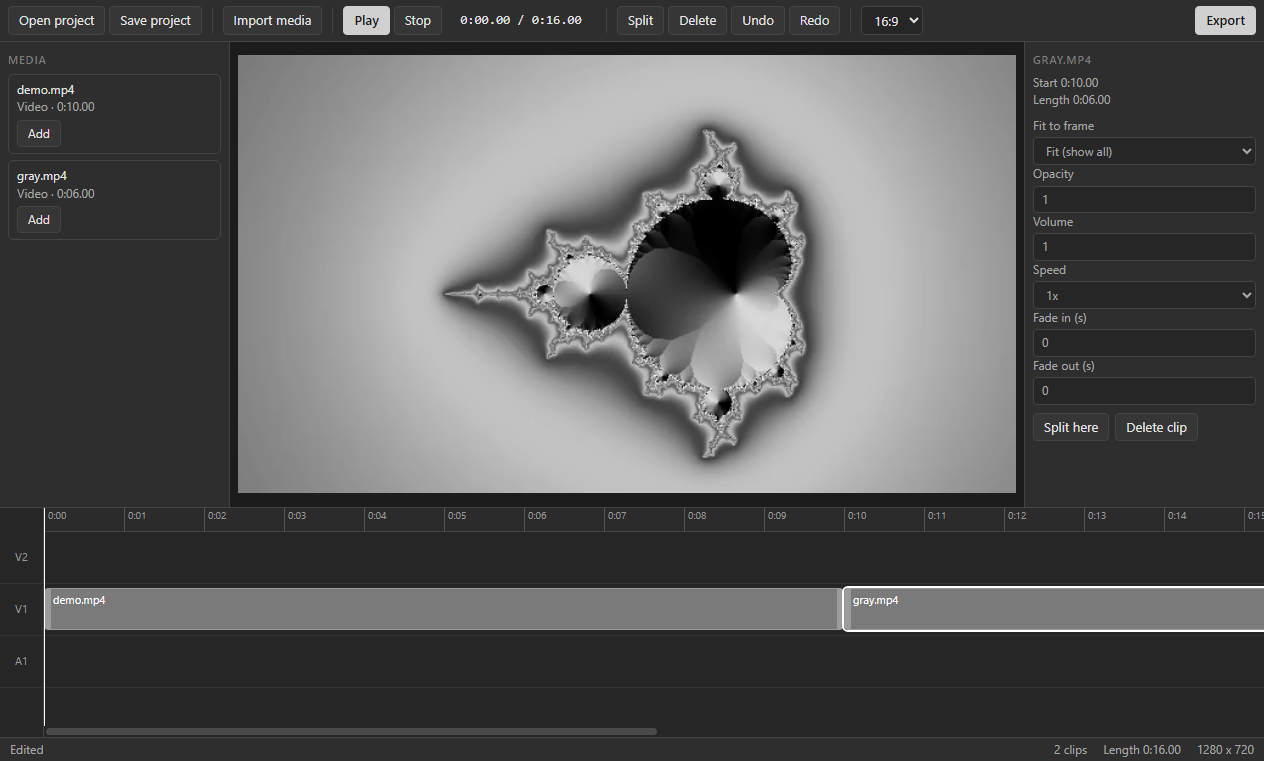
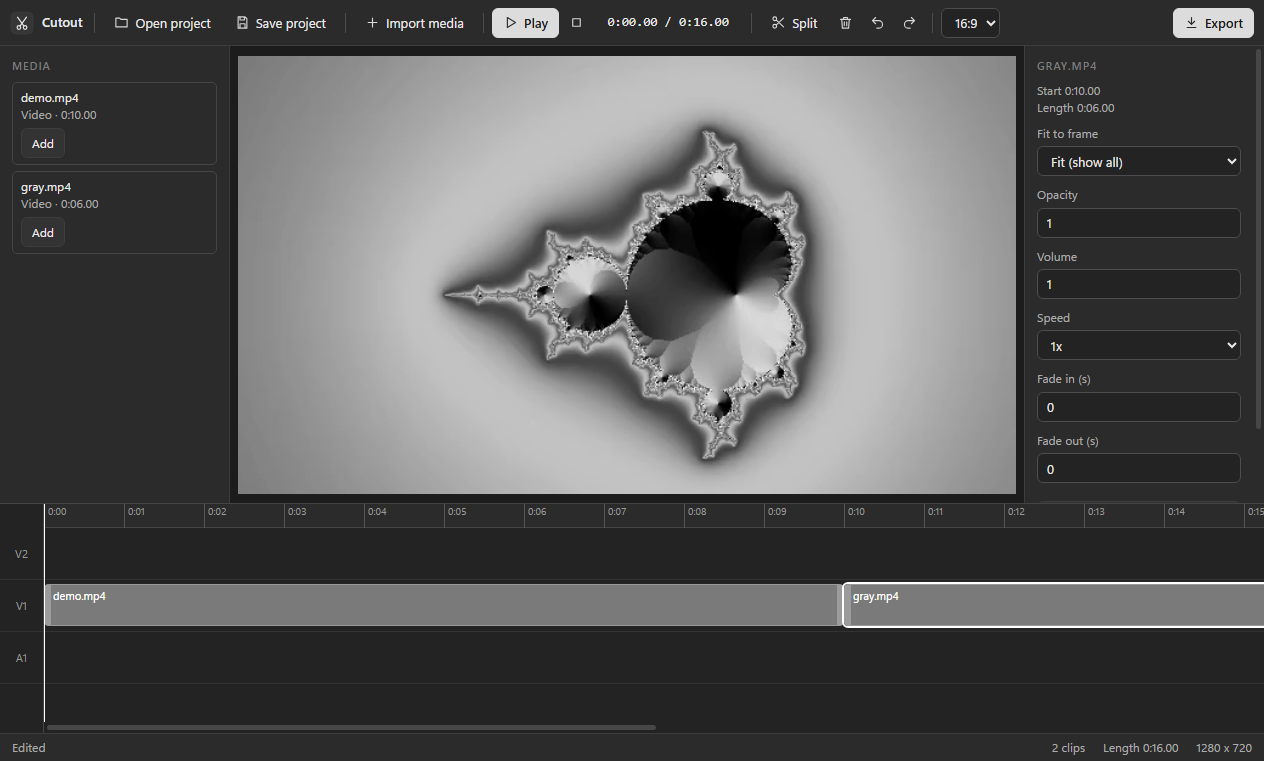
Cutout 1.0.2: refreshed interface
Refreshed interface: line icons on every toolbar button, the app mark in the top bar, consistent control sizes and spacing, tidier side panels, and a toolbar that adapts to smaller windows. Also includes layout fixes and a fuller guide on the project page.

diff --git a/renderer/lookout.css b/renderer/lookout.css
@@ -1,62 +1,119 @@
-/* Lookout gray UI kit: flat, no glow, no gradients, no hue. */
+/* Lookout gray UI kit v2: flat, calm, no hue. Shared by every Lookout app. */
 :root{
-  --bg:#262626; --bg-2:#2e2e2e; --bg-3:#363636; --line:#444; --line-2:#555;
-  --text:#e4e4e4; --text-2:#a8a8a8; --text-3:#7c7c7c;
-  --accent:#d0d0d0; --accent-ink:#1c1c1c; --focus:#9a9a9a;
-  --radius:4px; --font:"Segoe UI",system-ui,-apple-system,sans-serif; --mono:Consolas,"Cascadia Mono",monospace;
+  --bg:#232323; --bg-2:#2b2b2b; --bg-3:#333333; --bg-4:#3b3b3b; --stage:#1c1c1c;
+  --line:#3d3d3d; --line-2:#4d4d4d; --line-3:#5c5c5c;
+  --text:#e8e8e8; --text-2:#ababab; --text-3:#7d7d7d;
+  --accent:#dcdcdc; --accent-ink:#1b1b1b; --focus:#a0a0a0;
+  --radius:6px; --h:30px;
+  --font:"Segoe UI Variable Text","Segoe UI",system-ui,-apple-system,sans-serif; --mono:Consolas,"Cascadia Mono",monospace;
 }
 *{box-sizing:border-box;margin:0;padding:0}
 html,body{height:100%;background:var(--bg);color:var(--text);font:13px/1.45 var(--font);overflow:hidden;user-select:none;-webkit-font-smoothing:antialiased}
 button,input,select,textarea{font:inherit;color:inherit}
 .app{display:grid;grid-template-rows:auto 1fr auto;height:100vh}
-.toolbar{display:flex;align-items:center;gap:4px;padding:6px 8px;background:var(--bg-2);border-bottom:1px solid var(--line);flex-wrap:wrap}
-.toolbar .sep{width:1px;align-self:stretch;background:var(--line);margin:2px 6px}
-.toolbar .grow{flex:1}
-.btn{background:var(--bg-3);border:1px solid var(--line);border-radius:var(--radius);padding:4px 10px;cursor:pointer;white-space:nowrap}
-.btn:hover{background:#404040;border-color:var(--line-2)}
+
+/* ---------- toolbar ---------- */
+.toolbar{display:flex;align-items:center;gap:2px;padding:7px 10px;min-height:46px;background:var(--bg-2);border-bottom:1px solid var(--line);flex-wrap:nowrap;overflow-x:auto;overflow-y:hidden;scrollbar-width:none}
+.toolbar::-webkit-scrollbar{height:0}
+.toolbar>*{flex-shrink:0}
+.toolbar .sep{width:1px;height:20px;align-self:center;background:var(--line-2);margin:0 6px}
+.toolbar .grow{flex:1 1 auto;min-width:8px}
+.toolbar input[type=text],.toolbar input[type=search]{width:170px}
+.brand{display:flex;align-items:center;gap:8px;padding-right:6px;margin-right:4px;font-weight:600;font-size:13px;color:var(--text)}
+.brand img{width:24px;height:24px;border-radius:6px;display:block}
+.brand+.sep{margin-left:0}
+
+/* ---------- buttons ---------- */
+.btn{display:inline-flex;align-items:center;justify-content:center;gap:6px;height:var(--h);padding:0 10px;background:var(--bg-3);border:1px solid var(--line);border-radius:var(--radius);cursor:pointer;white-space:nowrap;line-height:1;transition:background .08s,border-color .08s}
+.btn:hover{background:var(--bg-4);border-color:var(--line-2)}
 .btn:active{background:#2a2a2a}
-.btn:focus-visible,input:focus-visible,select:focus-visible,textarea:focus-visible,[tabindex]:focus-visible{outline:1px solid var(--focus);outline-offset:1px}
+.btn:focus-visible,input:focus-visible,select:focus-visible,textarea:focus-visible,[tabindex]:focus-visible{outline:2px solid var(--focus);outline-offset:1px}
 .btn.primary{background:var(--accent);color:var(--accent-ink);border-color:var(--accent);font-weight:600}
-.btn.primary:hover{background:#e0e0e0}
-.btn.on{background:#4a4a4a;border-color:var(--line-2)}
-.btn[disabled]{opacity:.4;pointer-events:none}
-.btn.icon{padding:4px 8px;min-width:30px;text-align:center}
-input[type=text],input[type=number],input[type=search],select,textarea{background:var(--bg);border:1px solid var(--line);border-radius:var(--radius);padding:4px 8px;user-select:text}
-input[type=range]{accent-color:#bdbdbd}
-input[type=color]{border:1px solid var(--line);background:var(--bg);width:28px;height:24px;padding:1px;border-radius:var(--radius)}
-label.field{display:flex;flex-direction:column;gap:3px;color:var(--text-2);font-size:12px}
-.main{display:flex;min-height:0}
-.sidebar{width:220px;background:var(--bg-2);border-right:1px solid var(--line);overflow:auto;padding:8px;flex-shrink:0}
-.sidebar.right{border-right:0;border-left:1px solid var(--line);width:250px}
-.sidebar h3,.panel-title{font-size:11px;text-transform:uppercase;letter-spacing:.08em;color:var(--text-3);margin:10px 0 6px;font-weight:600}
+.btn.primary:hover{background:#ececec;border-color:#ececec}
+.btn.on{background:#4a4a4a;border-color:var(--line-3);box-shadow:inset 0 0 0 1px #6a6a6a}
+.btn[disabled]{opacity:.38;pointer-events:none}
+.btn.icon{padding:0;width:var(--h);min-width:var(--h)}
+.btn .ic{width:15px;height:15px;flex-shrink:0;display:block;opacity:.92}
+.toolbar .btn:not(.primary):not(.on){background:transparent;border-color:transparent}
+.toolbar .btn:not(.primary):not(.on):hover{background:var(--bg-4);border-color:var(--line-2)}
+
+.toolbar.c1 .btn.minor:not(.primary):has(> svg.ic),.toolbar.c2 .btn:not(.primary):has(> svg.ic),.toolbar.c3 .btn:has(> svg.ic){font-size:0;gap:0;width:var(--h);padding:0}
+.toolbar.c2 .brand span{display:none}
+.toolbar.c2 input[type=text],.toolbar.c2 input[type=search]{width:120px}
+
+/* ---------- fields ---------- */
+input[type=text],input[type=number],input[type=search],input[type=date],select,textarea{background:var(--bg);border:1px solid var(--line-2);border-radius:var(--radius);padding:0 9px;height:var(--h);user-select:text;min-width:0}
+textarea{height:auto;padding:7px 9px;resize:vertical;line-height:1.45}
+select{padding-right:6px;cursor:pointer}
+input:hover,select:hover,textarea:hover{border-color:var(--line-3)}
+input[type=range]{accent-color:#c8c8c8;height:var(--h)}
+input[type=checkbox]{accent-color:#c8c8c8;width:15px;height:15px;cursor:pointer}
+input[type=color]{border:1px solid var(--line-2);background:var(--bg);width:30px;height:var(--h);padding:2px;border-radius:var(--radius)}
+label.field{display:flex;flex-direction:column;gap:4px;color:var(--text-2);font-size:12px}
+label.field>input,label.field>select,label.field>textarea{width:100%;color:var(--text);font-size:13px}
+
+/* ---------- layout ---------- */
+.main{display:flex;min-height:0;min-width:0}
+.sidebar{width:228px;background:var(--bg-2);border-right:1px solid var(--line);overflow:auto;padding:10px 12px 14px;flex-shrink:0}
+.sidebar.right{border-right:0;border-left:1px solid var(--line);width:272px}
+.sidebar h3,.panel-title{font-size:11px;text-transform:uppercase;letter-spacing:.08em;color:var(--text-3);margin:16px 0 8px;font-weight:600}
 .sidebar h3:first-child{margin-top:2px}
-.stage{flex:1;min-width:0;min-height:0;position:relative;background:#1f1f1f;overflow:auto}
-.status{display:flex;gap:16px;align-items:center;padding:3px 10px;background:var(--bg-2);border-top:1px solid var(--line);color:var(--text-2);font-size:12px}
+.sidebar input[type=text],.sidebar input[type=search],.sidebar select,.sidebar textarea{width:100%}
+.sidebar .row{flex-wrap:wrap}
+.sidebar .row>.btn{flex:1 1 auto}
+.sidebar .row>label.field{flex:1 1 0;min-width:0}
+.sidebar label.field{margin-bottom:10px}
+.sidebar .btn{width:auto}
+.sidebar>.btn{width:100%;margin-bottom:6px}
+.stage{flex:1;min-width:0;min-height:0;position:relative;background:var(--stage);overflow:auto}
+.status{display:flex;gap:18px;align-items:center;height:28px;padding:0 12px;background:var(--bg-2);border-top:1px solid var(--line);color:var(--text-2);font-size:12px;white-space:nowrap;overflow:hidden}
 .status .grow{flex:1}
 .list{display:flex;flex-direction:column;gap:2px}
-.list .item{padding:5px 8px;border-radius:var(--radius);cursor:pointer;border:1px solid transparent;display:flex;gap:6px;align-items:center}
+.list .item{padding:6px 8px;border-radius:var(--radius);cursor:pointer;border:1px solid transparent;display:flex;gap:6px;align-items:center;min-height:30px}
 .list .item:hover{background:var(--bg-3)}
-.list .item.sel{background:#444;border-color:var(--line-2)}
+.list .item.sel{background:var(--bg-4);border-color:var(--line-2)}
 .row{display:flex;gap:6px;align-items:center}
+.grow{flex:1 1 auto;min-width:0}
+.brow{display:grid;grid-template-columns:1fr 1fr;gap:6px;margin-bottom:6px}
+.brow>.btn{justify-content:flex-start}
+.frow{display:flex;align-items:center;gap:8px;margin-bottom:8px;color:var(--text-2)}
+.frow>input[type=text],.frow>input[type=number]{flex:1;color:var(--text)}
+.frow>span:first-child{min-width:44px}
+.frow>select{flex:1;min-width:0}
+.sidebar input[type=range]{width:100%}
+.sidebar .swatches{margin-bottom:10px}
+.list .item .btn{height:24px!important;width:26px!important;padding:0!important;font-size:0!important;gap:0;background:transparent;border-color:transparent;opacity:.55}
+.list .item:hover .btn,.list .item.sel .btn{opacity:1}
+.list .item .btn:hover{background:var(--bg-4);border-color:var(--line-2)}
 .col{display:flex;flex-direction:column;gap:6px}
 .muted{color:var(--text-2)}
-.empty{position:absolute;inset:0;display:flex;flex-direction:column;align-items:center;justify-content:center;gap:10px;color:var(--text-3);text-align:center;padding:20px}
-.empty .big{font-size:18px;color:var(--text-2)}
-.modal-back{position:fixed;inset:0;background:rgba(0,0,0,.55);display:flex;align-items:center;justify-content:center;z-index:50}
-.modal{background:var(--bg-2);border:1px solid var(--line-2);border-radius:6px;min-width:340px;max-width:80vw;max-height:85vh;overflow:auto;padding:16px;display:flex;flex-direction:column;gap:12px}
-.modal h2{font-size:15px;font-weight:600}
-.toast{position:fixed;left:50%;bottom:34px;transform:translateX(-50%);background:var(--bg-3);border:1px solid var(--line-2);padding:7px 14px;border-radius:var(--radius);z-index:60}
-.progress{height:6px;background:var(--bg);border:1px solid var(--line);border-radius:3px;overflow:hidden}
-.progress>i{display:block;height:100%;background:var(--accent);width:0}
-table.grid{border-collapse:collapse;width:100%}
-table.grid th,table.grid td{border:1px solid var(--line);padding:4px 8px;text-align:left}
-table.grid th{background:var(--bg-2);color:var(--text-2);font-weight:600}
-::-webkit-scrollbar{width:11px;height:11px}
-::-webkit-scrollbar-thumb{background:#4a4a4a;border:2px solid var(--bg);border-radius:6px}
-::-webkit-scrollbar-track{background:var(--bg)}
-.swatches{display:flex;flex-wrap:wrap;gap:4px}
-.swatches button{width:22px;height:22px;border:1px solid var(--line-2);border-radius:3px;cursor:pointer;padding:0}
-.swatches button.on{outline:2px solid var(--accent);outline-offset:1px}
-.progress>div{display:block;height:100%;background:var(--accent)}
-table.grid tr.sel td{background:#3a3a3a}
+.empty{position:absolute;inset:0;display:flex;flex-direction:column;align-items:center;justify-content:center;gap:12px;color:var(--text-3);text-align:center;padding:24px}
+.empty .big{font-size:18px;color:var(--text-2);font-weight:600}
+
+/* ---------- overlays ---------- */
+.modal-back{position:fixed;inset:0;background:rgba(0,0,0,.6);display:flex;align-items:center;justify-content:center;z-index:50}
+.modal{background:var(--bg-2);border:1px solid var(--line-2);border-radius:10px;min-width:360px;max-width:80vw;max-height:85vh;overflow:auto;padding:20px;display:flex;flex-direction:column;gap:14px;box-shadow:0 18px 50px rgba(0,0,0,.5)}
+.modal h2{font-size:16px;font-weight:600}
+.toast{position:fixed;left:50%;bottom:40px;transform:translateX(-50%);background:var(--bg-4);border:1px solid var(--line-3);padding:9px 16px;border-radius:8px;z-index:60;box-shadow:0 8px 24px rgba(0,0,0,.4)}
+.progress{height:6px;background:var(--bg);border:1px solid var(--line);border-radius:4px;overflow:hidden}
+.progress>i,.progress>div{display:block;height:100%;background:var(--accent);width:0}
+
+/* ---------- tables ---------- */
+table.grid{border-collapse:separate;border-spacing:0;width:100%}
+table.grid th,table.grid td{border-bottom:1px solid var(--line);padding:0 12px;height:38px;text-align:left;vertical-align:middle}
+table.grid th{background:var(--bg-2);color:var(--text-2);font-weight:600;font-size:12px;position:sticky;top:0;z-index:1;height:34px}
+table.grid tbody tr:hover td{background:#262626}
+table.grid tr.sel td{background:#353535}
 table.grid tbody tr{cursor:default}
+table.grid td .btn{height:26px;margin-left:8px;vertical-align:middle}
+table.grid td{white-space:nowrap}
+
+/* ---------- misc ---------- */
+::-webkit-scrollbar{width:11px;height:11px}
+::-webkit-scrollbar-thumb{background:#474747;border:3px solid transparent;background-clip:padding-box;border-radius:8px}
+::-webkit-scrollbar-thumb:hover{background:#5a5a5a;background-clip:padding-box;border:3px solid transparent}
+::-webkit-scrollbar-track,::-webkit-scrollbar-corner{background:transparent}
+.swatches{display:flex;flex-wrap:wrap;gap:6px}
+.swatches button{width:24px;height:24px;border:1px solid var(--line-3);border-radius:5px;cursor:pointer;padding:0}
+.swatches button.on{outline:2px solid var(--accent);outline-offset:2px}
+kbd{font-family:var(--mono);font-size:11px;background:var(--bg-3);border:1px solid var(--line-2);border-bottom-width:2px;border-radius:4px;padding:0 5px}

diff --git a/renderer/kit.js b/renderer/kit.js
@@ -1,0 +1,137 @@
+// Lookout UI kit: adds the app mark to the toolbar and monochrome line icons to buttons.
+// Purely visual. Buttons keep their text, so nothing else changes.
+(function () {
+  'use strict';
+  const NS = 'http://www.w3.org/2000/svg';
+  const P = {
+    plus: 'M12 5v14M5 12h14',
+    file: 'M14 3H6v18h12V7zM14 3v4h4M12 11v6M9 14h6',
+    folder: 'M3 7V5h6l2 2h10v12H3z',
+    save: 'M5 3h11l3 3v15H5zM8 3v5h7V3M8 21v-7h8v7',
+    saveas: 'M5 3h11l3 3v6M5 3v18h7M8 3v5h7V3M15 21l6-6-2-2-6 6v2z',
+    undo: 'M9 14L4 9l5-5M4 9h10a6 6 0 010 12h-3',
+    redo: 'M15 14l5-5-5-5M20 9H10a6 6 0 000 12h3',
+    trash: 'M4 7h16M10 11v6M14 11v6M6 7l1 14h10l1-14M9 7V4h6v3',
+    copy: 'M9 9h11v11H9zM5 15H4V4h11v1',
+    paste: 'M9 4h6v3H9zM8 5H5v16h14V5h-3',
+    dup: 'M8 8h12v12H8zM4 16V4h12M14 11v6M11 14h6',
+    download: 'M12 4v11M7 10l5 5 5-5M5 20h14',
+    fit: 'M4 9V4h5M15 4h5v5M20 15v5h-5M9 20H4v-5',
+    play: 'M7 4l13 8-13 8z',
+    stop: 'M6 6h12v12H6z',
+    pause: 'M7 5h3v14H7zM14 5h3v14h-3z',
+    rec: 'M12 5a7 7 0 100 14 7 7 0 000-14z',
+    scissors: 'M6 9a3 3 0 100-6 3 3 0 000 6zM6 21a3 3 0 100-6 3 3 0 000 6zM8.2 7.8L20 19M8.2 16.2L20 5',
+    pointer: 'M5 3l14 7-6 2-2 6z',
+    hand: 'M8 13V6a1.5 1.5 0 013 0v5M11 11V4.5a1.5 1.5 0 013 0V11M14 11V6a1.5 1.5 0 013 0v8a7 7 0 01-7 7 6 6 0 01-5-3l-2.5-4.5a1.5 1.5 0 012.6-1.5L8 15',
+    connector: 'M5 19L19 5M13 5h6v6',
+    frame: 'M7 3v18M17 3v18M3 7h18M3 17h18',
+    rect: 'M4 6h16v12H4z',
+    ellipse: 'M12 5c4.4 0 8 3.1 8 7s-3.6 7-8 7-8-3.1-8-7 3.6-7 8-7z',
+    line: 'M5 19L19 5',
+    text: 'M5 6V4h14v2M12 4v16M9 20h6',
+    highlight: 'M14 4l6 6-8 8H6v-6zM4 21h16',
+    pen: 'M4 20l4-1 11-11-3-3L5 16zM14 7l3 3',
+    redact: 'M4 8h16v8H4z',
+    sign: 'M3 17c3-6 5-9 7-9 3 0-2 9 1 9 2 0 3-3 5-3s1 3 5 3M3 21h18',
+    eraser: 'M8 20l-4-4 10-10 6 6-10 8zM12 20h8',
+    search: 'M11 4a7 7 0 100 14 7 7 0 000-14zM16 16l5 5',
+    list: 'M9 6h11M9 12h11M9 18h11M4 6h.01M4 12h.01M4 18h.01',
+    child: 'M5 4v8a3 3 0 003 3h11M15 11l4 4-4 4',
+    sibling: 'M5 6h14M5 12h14M12 15v6M9 18h6',
+    collapse: 'M6 9l6 6 6-6',
+    expand: 'M7 14l5-5 5 5',
+    calendar: 'M4 6h16v14H4zM4 10h16M8 3v5M16 3v5',
+    diamond: 'M12 3l9 9-9 9-9-9z',
+    up: 'M12 19V5M6 11l6-6 6 6',
+    down: 'M12 5v14M6 13l6 6 6-6',
+    refresh: 'M20 11a8 8 0 10-2.3 5.7M20 4v7h-7',
+    check: 'M4 12l5 5L20 6',
+    convert: 'M4 8h13M13 4l4 4-4 4M20 16H7M11 12l-4 4 4 4',
+    eye: 'M2 12s4-7 10-7 10 7 10 7-4 7-10 7S2 12 2 12zM12 9a3 3 0 100 6 3 3 0 000-6z',
+    info: 'M12 3a9 9 0 100 18 9 9 0 000-18zM12 11v6M12 7.5h.01',
+    front: 'M8 8h12v12H8zM4 4h10v3M4 4v10h3',
+    back: 'M4 4h12v12H4zM20 8v12H8v-4',
+    merge: 'M6 3v6a6 6 0 006 6h6M15 12l3 3-3 3M6 21v-4',
+    rotl: 'M4 10a8 8 0 112 6M4 4v6h6',
+    rotr: 'M20 10a8 8 0 10-2 6M20 4v6h-6',
+    blank: 'M6 3h12v18H6z',
+    extract: 'M14 3H6v18h12V7zM14 3v4h4M12 10v7M9 14l3 3 3-3',
+    mic: 'M12 3a3 3 0 00-3 3v6a3 3 0 006 0V6a3 3 0 00-3-3zM6 11a6 6 0 0012 0M12 17v4',
+    clear: 'M6 6l12 12M18 6L6 18',
+    gaps: 'M3 6v12M21 6v12M7 12h10M10 9l-3 3 3 3M14 9l3 3-3 3',
+    title: 'M4 5h16v14H4zM8 9h8M12 9v7',
+    dashed: 'M4 12h3M10 12h4M17 12h3',
+    arrow: 'M4 12h15M14 7l5 5-5 5',
+    elbow: 'M4 6h8v12h8',
+    label: 'M3 12l6-7h12v14H9zM8 12h.01',
+    image: 'M4 5h16v14H4zM4 16l5-5 4 4 3-3 4 4M15 9h.01',
+    vector: 'M5 19L12 5l7 14M8 13h8M3 19h4M17 19h4',
+    table: 'M4 5h16v14H4zM4 10h16M4 15h16M10 5v14',
+    lock: 'M6 11h12v9H6zM8 11V8a4 4 0 018 0v3',
+    unlock: 'M6 11h12v9H6zM8 11V8a4 4 0 017.5-2',
+    eyeoff: 'M3 3l18 18M10.6 6.1A10 10 0 0112 6c6 0 10 6 10 6a17 17 0 01-3 3.6M6.6 6.6C3.8 8.3 2 12 2 12s4 7 10 7a9.7 9.7 0 004.4-1',
+  };
+  const MAP = {
+    'New': 'file', 'Open': 'folder', 'Open project': 'folder', 'Open file': 'folder', 'Save': 'save', 'Save project': 'save', 'Save as': 'saveas',
+    'Undo': 'undo', 'Redo': 'redo', 'Delete': 'trash', 'Delete clip': 'trash', 'Remove selected': 'trash', 'Copy': 'copy', 'Paste': 'paste', 'Duplicate': 'dup',
+    'Export PNG': 'image', 'Export SVG': 'vector', 'Export CSV': 'table', 'Export': 'download', 'Export page as PNG': 'download', 'Extract all text': 'text',
+    'Fit': 'fit', 'Play': 'play', 'Stop': 'stop', 'Pause': 'pause', 'Resume': 'play', 'Record': 'rec', 'Split': 'scissors', 'Split here': 'scissors',
+    'Select': 'pointer', 'Move': 'pointer', 'Hand': 'hand', 'Connector': 'connector', 'Frame': 'frame', 'Rectangle': 'rect', 'Box': 'rect', 'Ellipse': 'ellipse', 'Line': 'line', 'Text': 'text',
+    'Highlight': 'highlight', 'Pen': 'pen', 'Redact': 'redact', 'Sign': 'sign', 'Erase': 'eraser', 'Preview': 'eye', 'Outline': 'list',
+    'Add child': 'child', 'Add sibling': 'sibling', 'Edit': 'pen', 'Collapse': 'collapse', 'Expand all': 'expand', 'Today': 'calendar',
+    'Add task': 'plus', 'Add milestone': 'diamond', 'Move up': 'up', 'Move down': 'down', 'Up': 'up', 'Down': 'down',
+    'Import media': 'plus', 'Add files': 'plus', 'Output folder': 'folder', 'Convert all': 'convert', 'Clear finished': 'clear', 'Show': 'folder', 'Show in folder': 'folder',
+    'Check file': 'check', 'Repair to new file': 'download', 'Refresh sources': 'refresh', 'Start recording': 'rec', 'Stop and review': 'stop', 'New recording': 'rec',
+    'Check for updates': 'refresh', 'Info': 'info', 'Merge': 'merge', 'Rotate L': 'rotl', 'Rotate R': 'rotr', 'Blank': 'blank', 'Extract': 'extract',
+    'Front': 'front', 'Back': 'back', 'Close gaps': 'gaps', 'Title text': 'title', 'Dashed': 'dashed', 'Arrow on/off': 'arrow', 'Straight / Elbow': 'elbow', 'Edit label': 'label',
+    'Cut': 'scissors', 'Trim to selection': 'fit', 'Locate missing files': 'search',
+  };
+  const LMAP = { 'Hide': 'eye', 'Show': 'eyeoff', 'Lock': 'unlock', 'Unlock': 'lock' };
+  function icon(name) {
+    const s = document.createElementNS(NS, 'svg');
+    s.setAttribute('viewBox', '0 0 24 24'); s.setAttribute('class', 'ic'); s.setAttribute('aria-hidden', 'true');
+    s.setAttribute('fill', 'none'); s.setAttribute('stroke', 'currentColor'); s.setAttribute('stroke-width', '1.8');
+    s.setAttribute('stroke-linecap', 'round'); s.setAttribute('stroke-linejoin', 'round');
+    const p = document.createElementNS(NS, 'path'); p.setAttribute('d', P[name]); s.append(p);
+    return s;
+  }
+  function decorate(b) {
+    if (b.tagName !== 'BUTTON' || !b.classList.contains('btn')) return;
+    const label = (b.textContent || '').trim();
+    const name = (b.closest('.list') && LMAP[label]) || MAP[label];
+    const cur = b.querySelector(':scope > svg.ic');
+    if (cur && cur.dataset.for === label) return;
+    if (cur) cur.remove();
+    if (!name) return;
+    const s = icon(name); s.dataset.for = label; b.prepend(s);
+    if (!b.title) b.title = label;
+  }
+  function brand(bar) {
+    if (!bar || bar.querySelector(':scope > .brand') || (document.title && (bar.textContent || '').includes(document.title))) return;
+    const name = document.title || '';
+    const d = document.createElement('div'); d.className = 'brand';
+    const img = document.createElement('img'); img.src = 'brand.svg'; img.alt = '';
+    const t = document.createElement('span'); t.textContent = name;
+    d.append(img, t);
+    const sep = document.createElement('span'); sep.className = 'sep';
+    bar.prepend(d, sep);
+  }
+  const MINOR = new Set(['New', 'Open', 'Undo', 'Redo', 'Copy', 'Paste', 'Duplicate', 'Delete', 'Front', 'Back', 'Fit', 'Hand', 'Merge', 'Move up', 'Move down', 'Today', 'Cut', 'Dashed', 'Arrow on/off', 'Straight / Elbow', 'Edit label', 'Output folder', 'Remove selected', 'Clear finished', 'Refresh sources', 'Stop', 'Collapse', 'Expand all', 'Select', 'Move']);
+  function fitBar(bar) {
+    bar.classList.remove('c1', 'c2', 'c3');
+    bar.querySelectorAll(':scope > .btn').forEach((b) => b.classList.toggle('minor', MINOR.has((b.textContent || '').trim())));
+    for (const c of ['c1', 'c2', 'c3']) { if (bar.scrollWidth <= bar.clientWidth + 1) break; bar.classList.add(c); }
+  }
+  window.addEventListener('resize', () => { const bar = document.querySelector('.app > .toolbar'); if (bar) fitBar(bar); });
+  let queued = false;
+  function sweep() {
+    queued = false;
+    document.querySelectorAll('.btn').forEach(decorate);
+    const bar = document.querySelector('.app > .toolbar');
+    if (bar && bar.children.length) { brand(bar); fitBar(bar); }
+  }
+  const mo = new MutationObserver(() => { if (!queued) { queued = true; requestAnimationFrame(sweep); } });
+  function start() { mo.observe(document.body, { childList: true, subtree: true, characterData: true }); sweep(); }
+  if (document.readyState === 'loading') document.addEventListener('DOMContentLoaded', start); else start();
+})();

diff --git a/renderer/index.html b/renderer/index.html
@@ -10,6 +10,7 @@
 </head>
 <body>
 <div class="app" id="app"></div>
+<script src="kit.js"></script>
 <script src="app.js"></script>
 </body>
 </html>

diff --git a/README.md b/README.md
@@ -1,6 +1,6 @@
 <p align="center"><img src="screenshots/banner.png" alt="Cutout" width="100%"></p>
 
-<p align="center"><b>Video editing on a timeline</b><br>Version 1.0.1 for Windows · Free · Offline · No account</p>
+<p align="center"><b>Video editing on a timeline</b><br>Version 1.0.2 for Windows · Free · Offline · No account</p>
 
 <p align="center"><a href="https://github.com/plawanpawin-byte/cutout/releases/latest"><b>Download Cutout</b></a> · <a href="https://github.com/plawanpawin-byte/Lookout">All Lookout apps</a></p>
 
@@ -11,6 +11,12 @@ Cutout is a video editor with a multi-track timeline. Import clips, place them i
 **Made for:** Anyone who wants to cut together holiday clips, tutorials, screen recordings or short social videos without a subscription or a watermark.
 
 ![Cutout](screenshots/01-timeline.png)
+
+**On this page:** [Screenshots](#see-it-in-action) · [Interface](#the-interface) · [Features](#everything-it-can-do) · [How to use it](#how-to-use-it) · [Shortcuts](#keyboard-shortcuts) · [Formats](#files-and-formats) · [Privacy](#private-by-design) · [Install](#install) · [Questions](#questions)
+
+## What is new in 1.0.2
+
+A refreshed interface: every toolbar button now has a clear line icon, the app's mark sits at the top left, controls share one height and spacing, panels line up in tidy grids, and the toolbar keeps every button reachable on smaller windows by switching less important buttons to icons.
 
 ## See it in action
 
@@ -43,6 +49,12 @@ Pick a size, a format and a quality level before rendering.
 ![What you get out](screenshots/05-exported-video-frame.png)
 
 A frame taken from the exported video file.
+
+## The interface
+
+- **Top bar:** open and save projects, import media, play and stop, the time readout, split, delete, undo and redo, aspect ratio, and Export.
+- **Left panel:** your imported media, each with an Add button. **Centre:** the preview. **Right panel:** settings of the selected clip.
+- **Timeline (bottom):** two video tracks and an audio track with a time ruler and a playhead.
 
 ## Everything it can do
 
@@ -126,5 +138,15 @@ Never.
 ## About Lookout
 
 Cutout belongs to the **[Lookout](https://github.com/plawanpawin-byte/Lookout)** family: ten small, private Windows apps for documents and media, all with the same calm grey look and the same promise that your files stay yours. Install and update them together with the [Lookout launcher](https://github.com/plawanpawin-byte/lookout-launcher).
+
+- **[Pageout](https://github.com/plawanpawin-byte/pageout)**: read, annotate and sign pdfs
+- **[Chartout](https://github.com/plawanpawin-byte/chartout)**: flowcharts and diagrams
+- **[Branchout](https://github.com/plawanpawin-byte/branchout)**: mind maps and outlines
+- **[Planout](https://github.com/plawanpawin-byte/planout)**: plans and gantt timelines
+- **[Frameout](https://github.com/plawanpawin-byte/frameout)**: screen design and prototypes
+- **[Shiftout](https://github.com/plawanpawin-byte/shiftout)**: convert and compress media
+- **[Castout](https://github.com/plawanpawin-byte/castout)**: record your screen
+- **[Mendout](https://github.com/plawanpawin-byte/mendout)**: repair damaged media
+- **[Tuneout](https://github.com/plawanpawin-byte/tuneout)**: record and edit audio
 
 Released under the MIT License.
